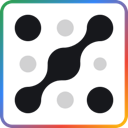
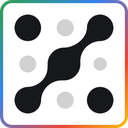
refactor: 删除黑暗模式资产，简化图标渲染，只使用浅色主题。

diff --git a/src/pages/Popup/Components/Header.jsx b/src/pages/Popup/Components/Header.jsx
@@ -2,11 +2,7 @@ import React, { memo, useEffect, useRef, useState } from "react"
 
 import {
   AppstoreOutlined,
-  BulbOutlined,
-  CloseOutlined,
   DesktopOutlined,
-  EyeInvisibleOutlined,
-  EyeOutlined,
   MoonOutlined,
   SearchOutlined,
   SettingOutlined,
@@ -15,7 +11,6 @@ import {
 import { Input, Space, message } from "antd"
 import _ from "lodash"
 
-import DarkIcon from ".../assets/Dark.svg"
 import LightIcon from ".../assets/Light.svg"
 import storage from ".../storage/sync"
 import { getLang } from ".../utils/utils"
@@ -27,8 +22,7 @@ import ModeDropdown from "./header/mode/ModeDropdown"
 // 已移除模式切换功能 - ModeDropdown
 
 const Header = memo((props) => {
-  const { activeCount, totalCount, options, onModeChanged, onLayoutChanged, onSearch, isDarkMode } =
-    props
+  const { activeCount, totalCount, options, onModeChanged, onLayoutChanged, onSearch } = props
 
   const [messageApi, contextHolder] = message.useMessage()
 
@@ -118,8 +112,14 @@ const Header = memo((props) => {
     switch (nextMode) {
       case "light":
         return (
-          <svg width="20"
-            height="20" xmlns="http://www.w3.org/2000/svg" viewBox="0 0 16 16"><path fill="currentColor" fillRule="evenodd" d="M8 3a.75.75 0 0 1-.75-.75V.75a.75.75 0 0 1 1.5 0v1.5A.75.75 0 0 1 8 3m0 7.5a2.5 2.5 0 1 0 0-5a2.5 2.5 0 0 0 0 5M8 12a4 4 0 1 0 0-8a4 4 0 0 0 0 8m-.75 3.25a.75.75 0 0 0 1.5 0v-1.5a.75.75 0 0 0-1.5 0zM13 8a.75.75 0 0 1 .75-.75h1.5a.75.75 0 0 1 0 1.5h-1.5A.75.75 0 0 1 13 8M.75 7.25a.75.75 0 0 0 0 1.5h1.5a.75.75 0 0 0 0-1.5zm10.786-2.786a.75.75 0 0 1 0-1.06l1.06-1.06a.75.75 0 0 1 1.06 1.06l-1.06 1.06a.75.75 0 0 1-1.06 0m-9.193 8.132a.75.75 0 0 0 1.06 1.06l1.062-1.06a.75.75 0 0 0-1.061-1.06zm9.193-1.06a.75.75 0 0 1 1.06 0l1.06 1.06a.75.75 0 0 1-1.06 1.06l-1.06-1.06a.75.75 0 0 1 0-1.06M3.404 2.343a.75.75 0 0 0-1.06 1.06l1.06 1.061a.75.75 0 1 0 1.06-1.06z" clipRule="evenodd" /></svg>
+          <svg width="20" height="20" xmlns="http://www.w3.org/2000/svg" viewBox="0 0 16 16">
+            <path
+              fill="currentColor"
+              fillRule="evenodd"
+              d="M8 3a.75.75 0 0 1-.75-.75V.75a.75.75 0 0 1 1.5 0v1.5A.75.75 0 0 1 8 3m0 7.5a2.5 2.5 0 1 0 0-5a2.5 2.5 0 0 0 0 5M8 12a4 4 0 1 0 0-8a4 4 0 0 0 0 8m-.75 3.25a.75.75 0 0 0 1.5 0v-1.5a.75.75 0 0 0-1.5 0zM13 8a.75.75 0 0 1 .75-.75h1.5a.75.75 0 0 1 0 1.5h-1.5A.75.75 0 0 1 13 8M.75 7.25a.75.75 0 0 0 0 1.5h1.5a.75.75 0 0 0 0-1.5zm10.786-2.786a.75.75 0 0 1 0-1.06l1.06-1.06a.75.75 0 0 1 1.06 1.06l-1.06 1.06a.75.75 0 0 1-1.06 0m-9.193 8.132a.75.75 0 0 0 1.06 1.06l1.062-1.06a.75.75 0 0 0-1.061-1.06zm9.193-1.06a.75.75 0 0 1 1.06 0l1.06 1.06a.75.75 0 0 1-1.06 1.06l-1.06-1.06a.75.75 0 0 1 0-1.06M3.404 2.343a.75.75 0 0 0-1.06 1.06l1.06 1.061a.75.75 0 1 0 1.06-1.06z"
+              clipRule="evenodd"
+            />
+          </svg>
         )
       case "dark":
         return <MoonOutlined />
@@ -212,7 +212,7 @@ const Header = memo((props) => {
       {contextHolder}
       <Style>
         <div className="left">
-          <img src={isDarkMode ? DarkIcon : LightIcon} alt="" />
+          <img src={LightIcon} alt="" />
           <h2>
             {activeCount}/{totalCount}
           </h2>

diff --git a/src/pages/Options/about/About.jsx b/src/pages/Options/about/About.jsx
@@ -1,11 +1,9 @@
 import React, { useEffect, useState } from "react"
 
-import { GithubOutlined, } from "@ant-design/icons"
-import { Button, } from "antd"
+import { GithubOutlined } from "@ant-design/icons"
+import { Button } from "antd"
 import newGithubIssueUrl from "new-github-issue-url"
-import { useTheme } from "styled-components"
 
-import DarkIcon from ".../assets/Dark.svg"
 import LightIcon from ".../assets/Light.svg"
 import { storage } from ".../storage/sync"
 import { getLang } from ".../utils/utils"
@@ -13,9 +11,6 @@ import Title from "../Title.jsx"
 import { AboutStyle } from "./AboutStyle"
 
 function About() {
-  const theme = useTheme()
-  const isDarkMode = theme.bg === "#242529"
-
   const [version, setVersion] = useState("UNKNOWN")
   const [storageMessage, setStorageMessage] = useState("")
 
@@ -31,7 +26,6 @@ function About() {
       setStorageMessage(`Cloud Storage Usage: ${use}KB / 100KB`)
     })
   }, [])
-
 
   const openIssue = () => {
     const url = newGithubIssueUrl({
@@ -53,13 +47,12 @@ ${navigator.userAgent}`
     })
   }
 
-
   return (
     <AboutStyle>
       <Title title={getLang("about_title")}></Title>
 
       <div className="header-icon">
-        <img src={isDarkMode ? DarkIcon : LightIcon} alt="icon" />
+        <img src={LightIcon} alt="icon" />
         <div className="header-icon-text">
           <h3>Lite Extension Manager</h3>
           <span>{getLang("ext_desc")}</span>
